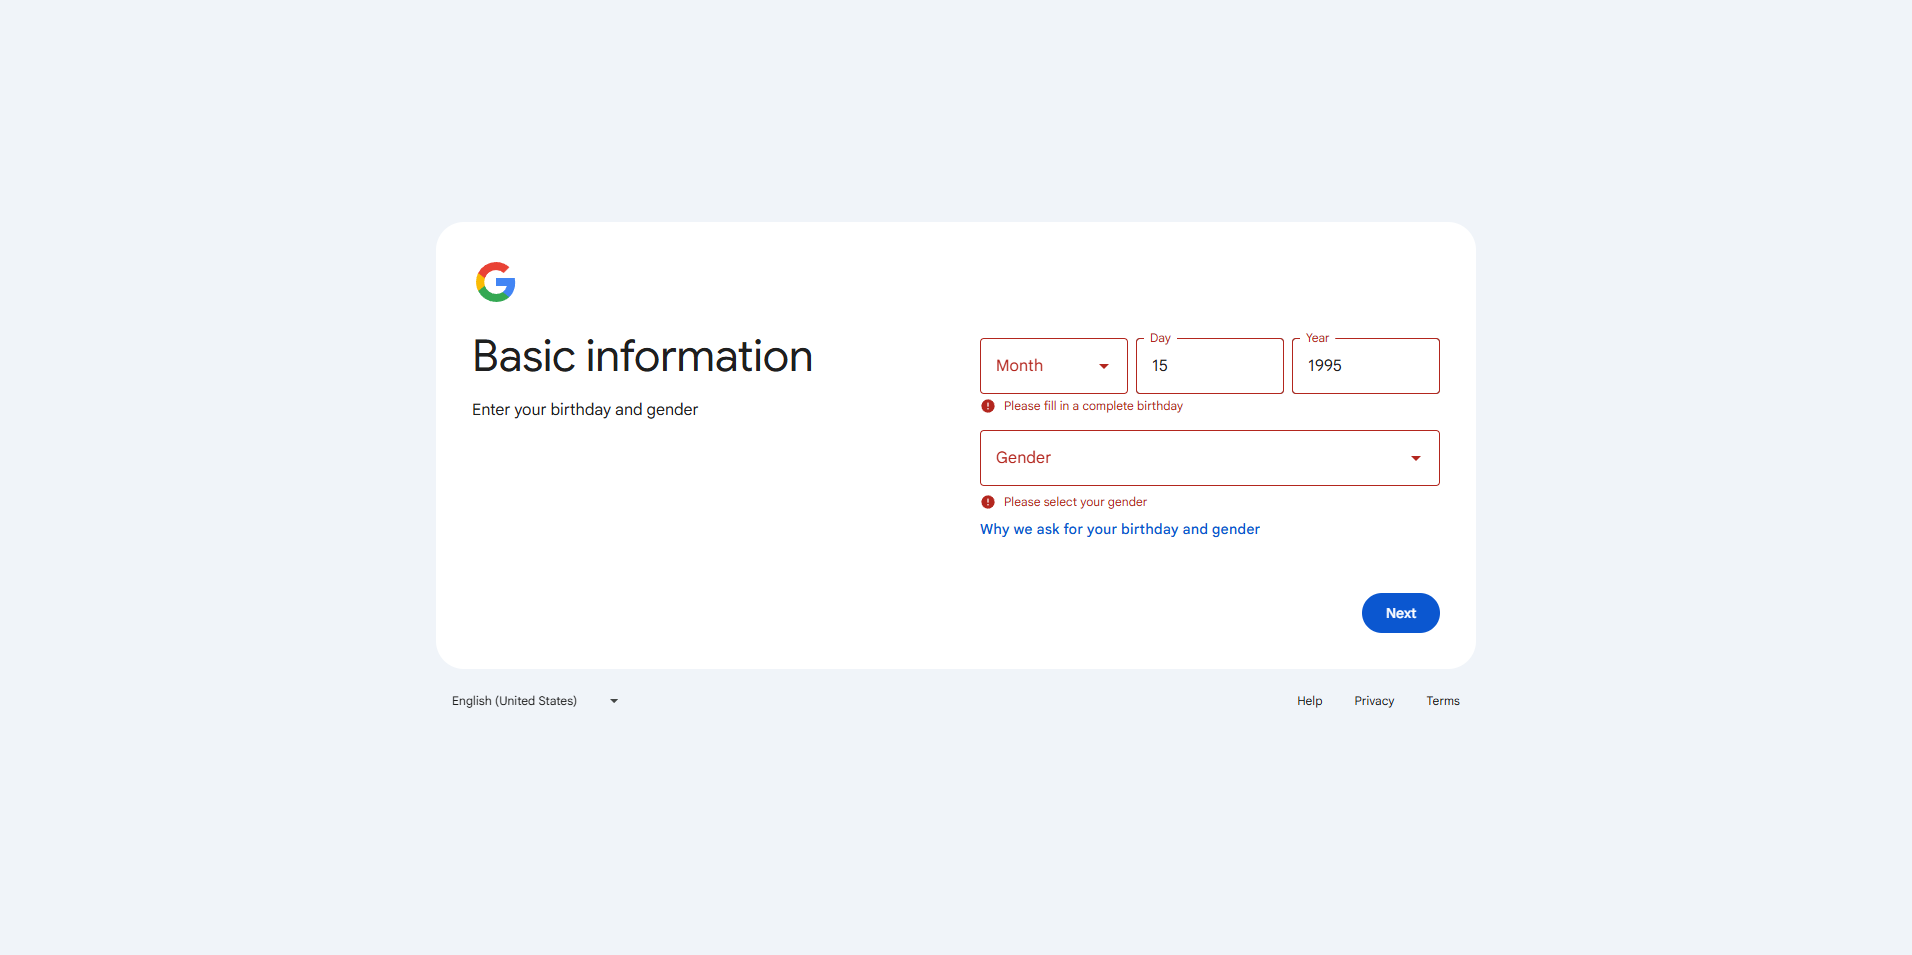
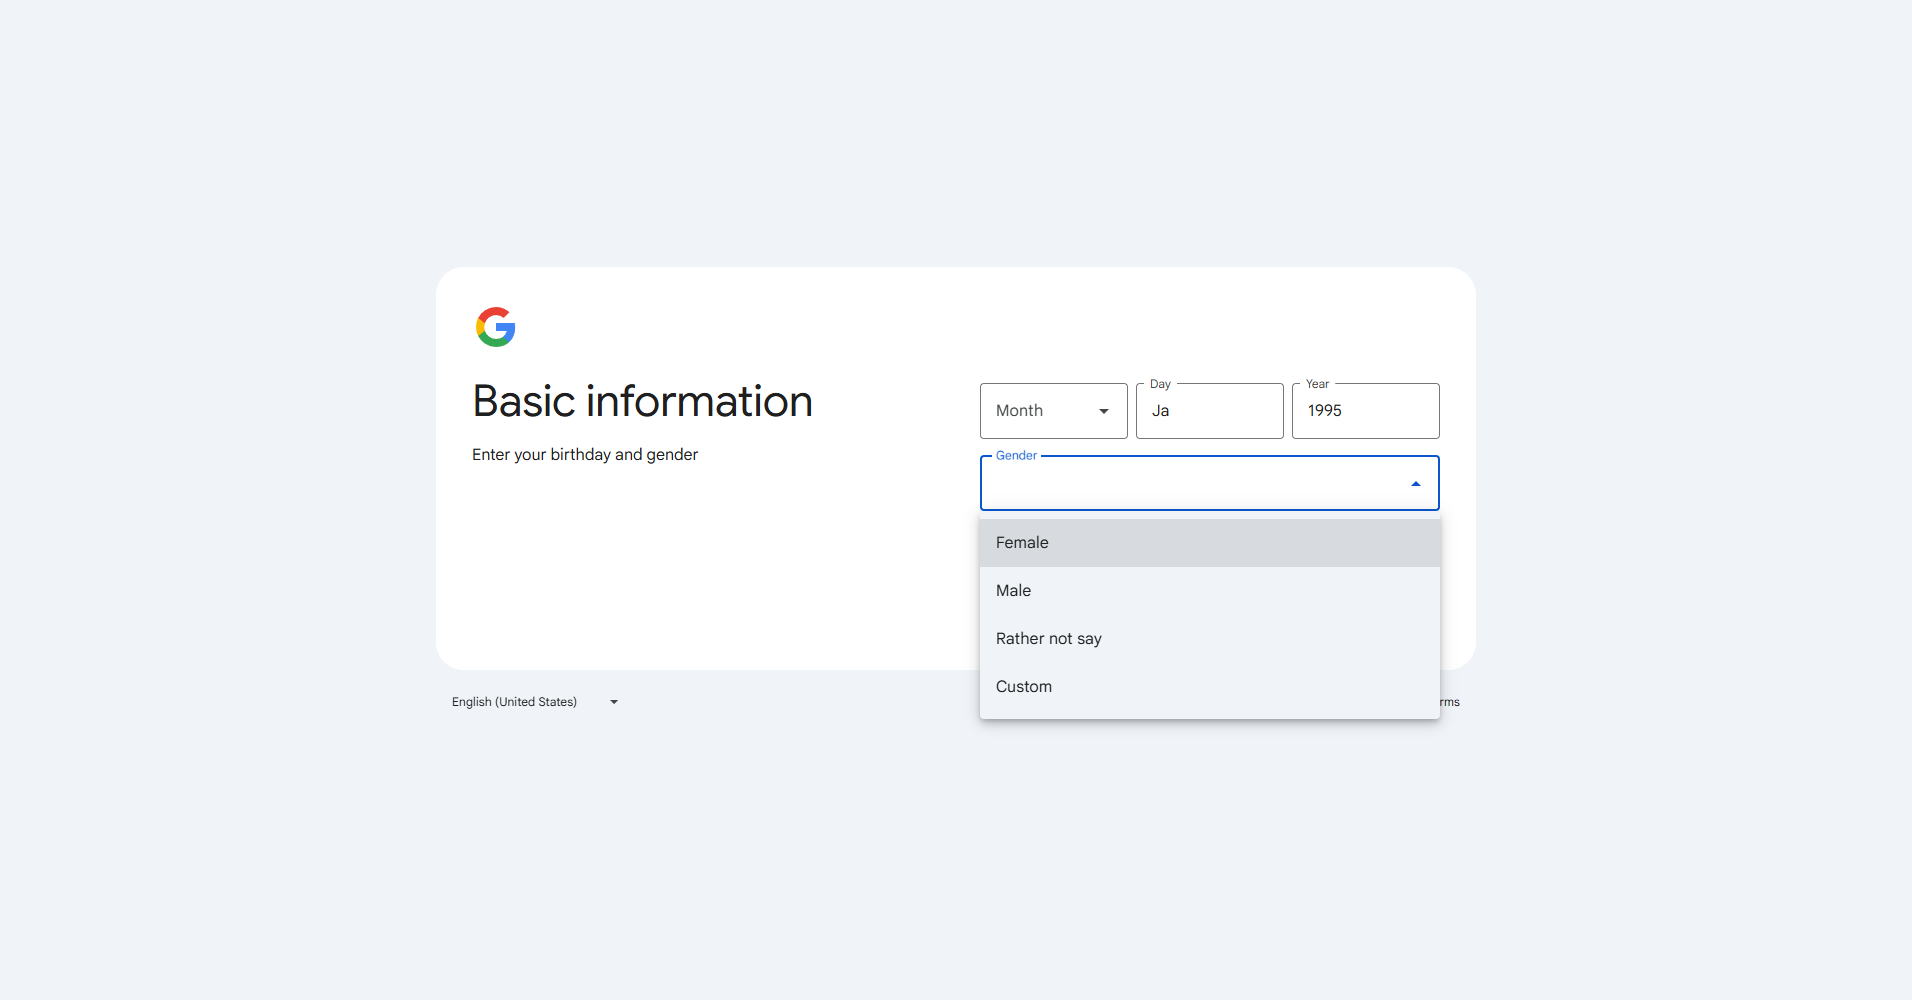
Optimize Gmail Bot with PyAutoGUI for robust human-like interaction

diff --git a/src/gmailbot/bot.py b/src/gmailbot/bot.py
@@ -1,6 +1,7 @@
 import time
 import random
 import string
+import pyautogui
 from selenium import webdriver
 from selenium.webdriver.edge.service import Service
 from selenium.webdriver.edge.options import Options
@@ -14,6 +15,8 @@ class GmailBot:
         edge_options = Options()
         edge_options.add_argument("--start-maximized")
         edge_options.add_argument("--disable-blink-features=AutomationControlled")
+        edge_options.add_experimental_option("excludeSwitches", ["enable-automation"])
+        edge_options.add_experimental_option('useAutomationExtension', False)
         
         self.driver = webdriver.Edge(options=edge_options)
         self.driver.execute_script("Object.defineProperty(navigator, 'webdriver', {get: () => undefined})")
@@ -21,10 +24,16 @@ class GmailBot:
     def _generate_random_string(self, length=8):
         return ''.join(random.choices(string.ascii_lowercase + string.digits, k=length))
 
+    def type_human(self, text):
+        """Simulate human typing using pyautogui."""
+        for char in text:
+            pyautogui.write(char)
+            time.sleep(random.uniform(0.1, 0.3))
+
     def start_signup(self):
-        """Navigate to the Google account creation page and fill initial form."""
+        """Navigate to the Google account creation page and fill form using direct keyboard simulation."""
         self.driver.get("https://accounts.google.com/signup")
-        wait = WebDriverWait(self.driver, 30)
+        time.sleep(5) # Wait for page load
         
         # Random data
         first_name = "John"
@@ -32,95 +41,58 @@ class GmailBot:
         username = f"jd{self._generate_random_string(10)}"
         password = f"Pass{self._generate_random_string(12)}!"
 
-        def fill_field_js(element, value):
-            try:
-                self.driver.execute_script("arguments[0].focus();", element)
-                self.driver.execute_script("arguments[0].value = arguments[1];", element, value)
-                self.driver.execute_script("arguments[0].dispatchEvent(new Event('input', { bubbles: true }));", element)
-                self.driver.execute_script("arguments[0].dispatchEvent(new Event('change', { bubbles: true }));", element)
-                self.driver.execute_script("arguments[0].blur();", element)
-            except Exception as e:
-                print(f"JS Fill failed: {e}")
-
         try:
-            # --- Step 1: Name ---
-            # Try finding by different locators for resilience
-            first_name_field = wait.until(EC.presence_of_element_located((By.CSS_SELECTOR, "input[name='firstName']")))
-            fill_field_js(first_name_field, first_name)
-            
-            last_name_field = self.driver.find_element(By.CSS_SELECTOR, "input[name='lastName']")
-            fill_field_js(last_name_field, last_name)
-            
-            # Find Next button by text content inside button
-            next_button = wait.until(EC.presence_of_element_located((By.XPATH, "//button//span[text()='Next']/..|//button[contains(., 'Next')]")))
-            self.driver.execute_script("arguments[0].click();", next_button)
+            # Step 1: Name
+            # Just start typing, the first name field is usually auto-focused
+            self.type_human(first_name)
+            time.sleep(0.5)
+            pyautogui.press('tab')
+            time.sleep(0.5)
+            self.type_human(last_name)
+            time.sleep(0.5)
+            pyautogui.press('enter')
             time.sleep(5)
             
-            # --- Step 2: Birthday & Gender ---
-            day_field = wait.until(EC.presence_of_element_located((By.CSS_SELECTOR, "input[name='day']")))
-            fill_field_js(day_field, "15")
-            
-            # Google often uses custom selects. We'll try to find the hidden select or use send_keys if visible.
-            try:
-                month_select = self.driver.find_element(By.ID, "month")
-                month_select.send_keys("January")
-            except:
-                pass
-            
-            year_field = self.driver.find_element(By.CSS_SELECTOR, "input[name='year']")
-            fill_field_js(year_field, "1995")
-            
-            try:
-                gender_select = self.driver.find_element(By.ID, "gender")
-                gender_select.send_keys("Male")
-            except:
-                pass
-            
-            next_button = wait.until(EC.presence_of_element_located((By.XPATH, "//button//span[text()='Next']/..|//button[contains(., 'Next')]")))
-            self.driver.execute_script("arguments[0].click();", next_button)
+            # Step 2: Birthday & Gender
+            self.type_human("15") # Day
+            pyautogui.press('tab')
+            time.sleep(0.5)
+            self.type_human("January") # Month (type the name, it usually works for dropdowns)
+            pyautogui.press('tab')
+            time.sleep(0.5)
+            self.type_human("1995") # Year
+            pyautogui.press('tab')
+            time.sleep(0.5)
+            self.type_human("Male") # Gender
+            time.sleep(0.5)
+            pyautogui.press('enter')
             time.sleep(5)
             
-            # --- Step 3: Choose Username ---
-            # Wait for either Username field or suggestions
-            username_container = wait.until(EC.presence_of_element_located((By.XPATH, "//input[@name='Username']|//div[contains(text(), 'Create your own')]|//div[@id='selectionc1']")))
-            
-            create_own = self.driver.find_elements(By.XPATH, "//div[contains(text(), 'Create your own')]")
-            if create_own:
-                self.driver.execute_script("arguments[0].click();", create_own[0])
-                time.sleep(2)
-
-            username_field = wait.until(EC.presence_of_element_located((By.CSS_SELECTOR, "input[name='Username']")))
-            fill_field_js(username_field, username)
-            
-            next_button = wait.until(EC.presence_of_element_located((By.XPATH, "//button//span[text()='Next']/..|//button[contains(., 'Next')]")))
-            self.driver.execute_script("arguments[0].click();", next_button)
+            # Step 3: Username
+            self.type_human(username)
+            time.sleep(0.5)
+            pyautogui.press('enter')
             time.sleep(5)
             
-            # --- Step 4: Password ---
-            pass_field = wait.until(EC.presence_of_element_located((By.CSS_SELECTOR, "input[name='Passwd']")))
-            fill_field_js(pass_field, password)
-            
-            confirm_field = self.driver.find_element(By.CSS_SELECTOR, "input[name='ConfirmPasswd']")
-            fill_field_js(confirm_field, password)
-            
-            next_button = wait.until(EC.presence_of_element_located((By.XPATH, "//button//span[text()='Next']/..|//button[contains(., 'Next')]")))
-            self.driver.execute_script("arguments[0].click();", next_button)
+            # Step 4: Password
+            self.type_human(password)
+            time.sleep(0.5)
+            pyautogui.press('tab')
+            time.sleep(0.5)
+            self.type_human(password)
+            time.sleep(0.5)
+            pyautogui.press('enter')
 
             print(f"Generated Credentials: {username}@gmail.com / {password}")
             print("Action required: Phone verification might appear now.")
             time.sleep(10)
             
         except Exception as e:
-            print(f"Automation failed: {str(e)[:200]}")
-            # Take a screenshot for debugging if it fails
+            print(f"Human-like automation failed: {e}")
             try:
                 self.driver.save_screenshot("error_screenshot.png")
-                print("Screenshot saved as error_screenshot.png")
             except:
                 pass
-            
-        except Exception as e:
-            print(f"Automation step failed: {e}")
 
     def quit(self):
         if self.driver:
